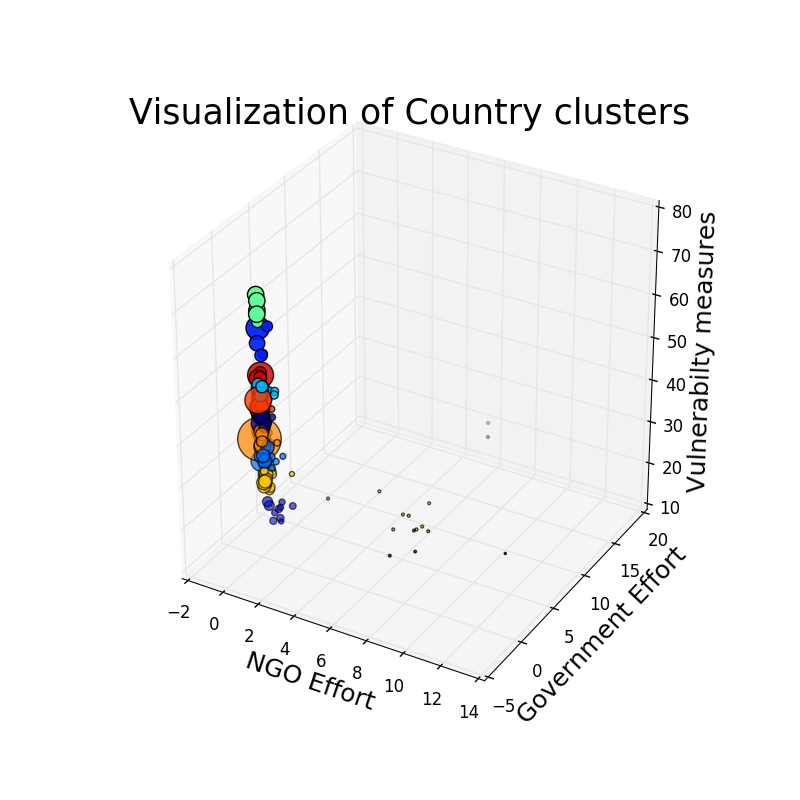
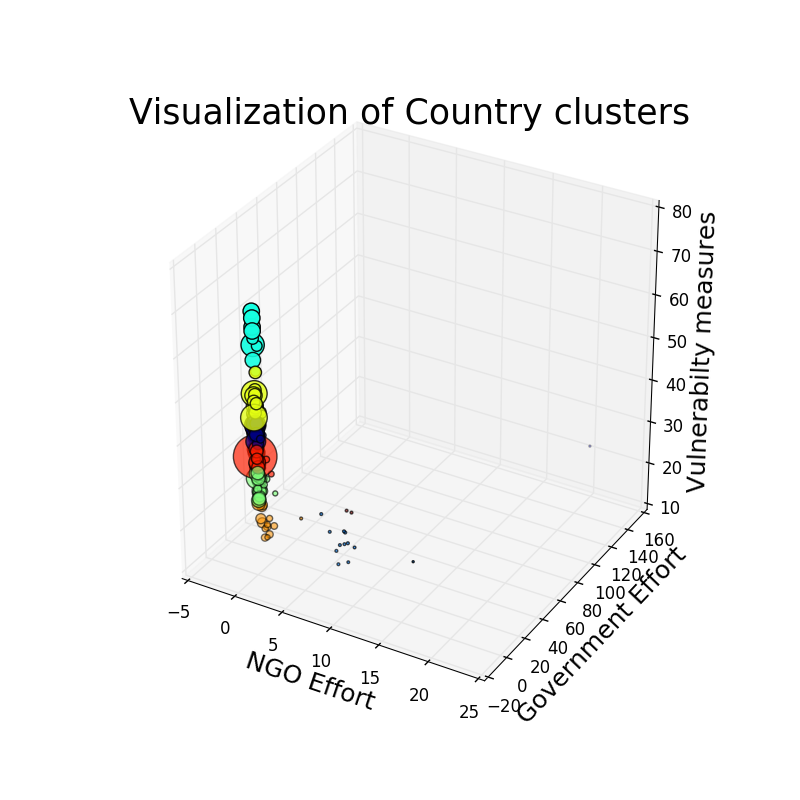
Updated README, and adusted clusters

diff --git a/rescue_freedom.py b/rescue_freedom.py
@@ -30,6 +30,14 @@ def main():
 def gov_df(df):
     gov_df = pd.read_csv('data/gov.csv')
     gov_df.set_index('country', drop=False, inplace=True)
+    # Drop columns that address only Labor slavery
+    drop = [col for col in gov_df.columns if 'm5' in col]
+    gov_df = gov_df.drop(drop, 1)
+    keep = ['m2_1.1.8','m2_1.2.5','m2_1.2.6']
+    drop2 = [col for col in gov_df.columns if 'm2' in col and col not in keep]
+    gov_df = gov_df.drop(drop2, 1)
+    drop3 = ['m4_1.3.2', 'm4_1.6.3', 'm4_1.6.5', 'm4_1.6.7', 'm4_1.8.1']
+    gov_df = gov_df.drop(drop3, 1)
     gov_df['sum']=gov_df.sum(axis=1)
     sum_df = gov_df[['country', 'sum']]
     df = pd.merge(sum_df, df, how='outer', on='country')
@@ -44,7 +52,7 @@ def add_region(df):
     return df
 
 def kmeans_clustering(x):
-    kmeans = KMeans(n_clusters=14, random_state=0).fit(x)
+    kmeans = KMeans(n_clusters=9, random_state=0).fit(x)
     return kmeans.labels_
 
 
@@ -61,12 +69,12 @@ def plot(df, label):
     # pickle.dump(fig, file('FigureObject.fig.pickle', 'wb'))
 
 def silhouette_plot(X):
-    range_n_clusters = [10, 11, 12, 14, 15, 16]
+    range_n_clusters = [8, 9, 10, 11, 12, 13]
 
     for n_clusters in range_n_clusters:
         # Create a subplot with 1 row and 2 columns
         fig, (ax1, ax2) = plt.subplots(1, 2)
-        fig.set_size_inches(18, 7)
+        fig.set_size_inches(16, 7)
         ax1.set_xlim([-0.1, 1])
         ax1.set_ylim([0, len(X) + (n_clusters + 1) * 10])
         clusterer = KMeans(n_clusters=n_clusters, random_state=10)
@@ -142,10 +150,12 @@ if __name__ == '__main__':
     df['vul_mean'] = (df['civil_pol_protect']+df['soc_health_eco_rigths']+df['security']+df['refugee_and_conflict'])/4.
     #df['vul_mean'] = df['vul_mean']*df['ss_per_100000']
     df = df.dropna()
-    df = df[df.country != 'United States']
+    #df = df[df.country != 'United States']
     X = df[['gov_effort', 'ngo_effort', 'vul_mean']].values
+    #silhouette_plot(X)
     label = kmeans_clustering(X)
     df['labels']=label
+
     plot(df, label)
     df[['country', 'labels']].to_csv('data/labels.csv', index=False)
     # figx = pickle.load(file('FigureObject.fig.pickle', 'rb'))

diff --git a/scraping_data/scraping_gloslavindx.py b/scraping_data/scraping_gloslavindx.py
@@ -6,7 +6,7 @@ import requests
 
 
 website_keys = {}
-with open('website_keys.txt') as f:
+with open('../data/website_keys.txt') as f:
     for line in f:
         line=line.split(':')
         website_keys[line[0].strip()]=line[1].strip()

diff --git a/README.md b/README.md
@@ -3,20 +3,16 @@
   Help Rescue Freedom International make data driven decisions about how to optimize their resources to help end sexual slavery.
 
   How:
-  Scraped data from Global slavery index, Global Modern slavery directory and adjust to only include sexual slavery. I calculated two features, Government effort and Non-Government Organization effort to try to determine what countries are not sufficiently addressing the needs of sexual slaves. Unfortunately, this didn't separate the countries enough to give Rescue Freedom a reasonable group of countries to consider for future growth. So to separate the countries further I used a third feature of vulnerabilty which allowed me to identfy 5 countries with both insufficient Government and NGO efforts, as well as high vulnerabilty which gives Rescue Freedom a reasonable set of countries to consider.
+  Scraped data from Global slavery index, Global Modern slavery directory and adjust to only include sexual slavery. I calculated two features, Government effort and Non-Government Organization effort to try to determine what countries are not sufficiently addressing the needs of sexual slaves. Unfortunately, this didn't separate the countries enough to give Rescue Freedom a reasonable group of countries to consider for future growth. So to separate the countries further I used a third feature of vulnerability which allowed me to identify 5 countries with both insufficient Government and NGO efforts, as well as high vulnerability which gives Rescue Freedom a reasonable set of countries to consider.
 
   Results:
-  
+  Using the clusters I was able to determine the top nine countries for Rescue Freedom to consider for future opportunities, based a on low NGO effort, low government effort and high vulnerability.
+
 
 # Explanation
-  Algorithms used/ techniques used
-  Validate results
-  interesting insight
+  Clustering was calculated using Scikit-learn's KMeans clustering algorithm, and I determined the number of clusters using silhouette plots, landing on 9 clusters.
+  One interesting insight was that the US was a huge outlier with a significantly larger Government and NGO effort and low vulnerability. Additionally, I originally hoped to cluster only using the NGO and Government efforts, but found that the majority of countries cluster between zero and one for both features requiring me to introduce vulnerability to spread my data points apart using the curse of dimensionality to my advantage.
 
 # Code Walk-Through:
-  overview of what code does
-  make clear how they should navigate through your code
-  if you have clever code point it out
-
-# How to run my code:
-  give instructions for how to run code on their computer
+  To collect the data I scraped two sites, www.globalslaveryindex.org, and www.globalmodernslavery.org, both in the scraping data folder. Each of these files creates a CSV file.
+  The bulk of my analysis is done in my rescue_freedom.py file where I merge several data frames, make my clusters and plot a 3D visualization of the data. It also outputs a csv including the clusters to then be introduced to my folium_map.py file in the geographic_data folder that takes the clusters and plots them geographically. This outputs an html file that I integrate into my web app which is contained in the my_app folder.
